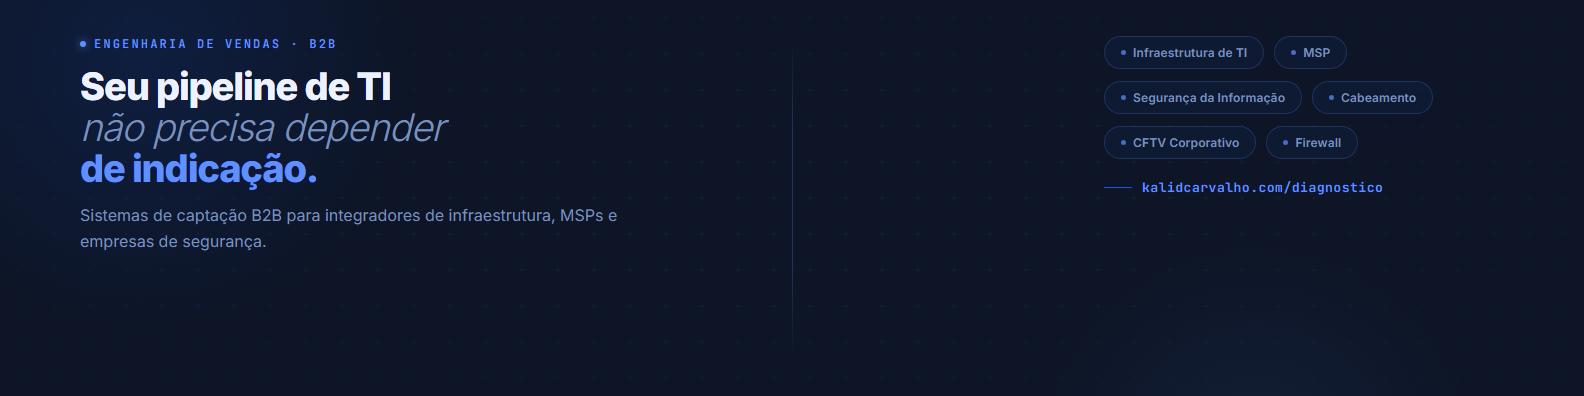
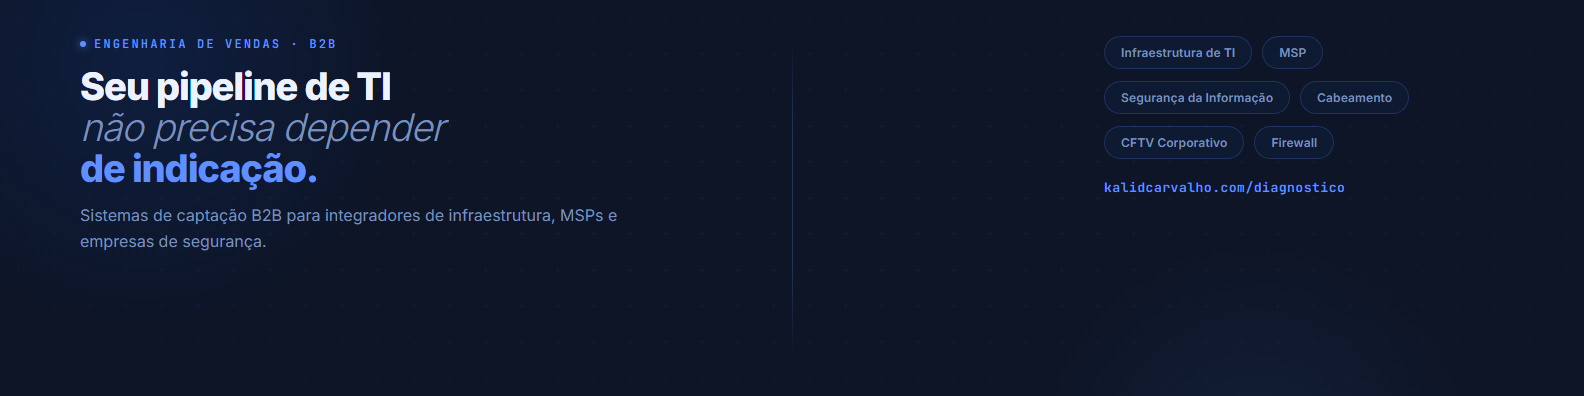
auto-sync: 2026-04-22 08:22

diff --git a/projetos/kalidcarvalho-diagnostico/banner-linkedin.html b/projetos/kalidcarvalho-diagnostico/banner-linkedin.html
@@ -132,13 +132,7 @@
     letter-spacing: 0.01em;
   }
 
-  .pill-icon {
-    width: 5px; height: 5px;
-    border-radius: 50%;
-    background: #6090FF;
-    opacity: 0.7;
-    flex-shrink: 0;
-  }
+  .pill-icon { display: none; }
 
   .url-block {
     margin-top: 8px;
@@ -147,10 +141,7 @@
     gap: 10px;
   }
 
-  .url-line {
-    height: 1px; width: 28px;
-    background: #1A56DB;
-  }
+  .url-line { display: none; }
 
   .url {
     font-family: 'JetBrains Mono', monospace;
